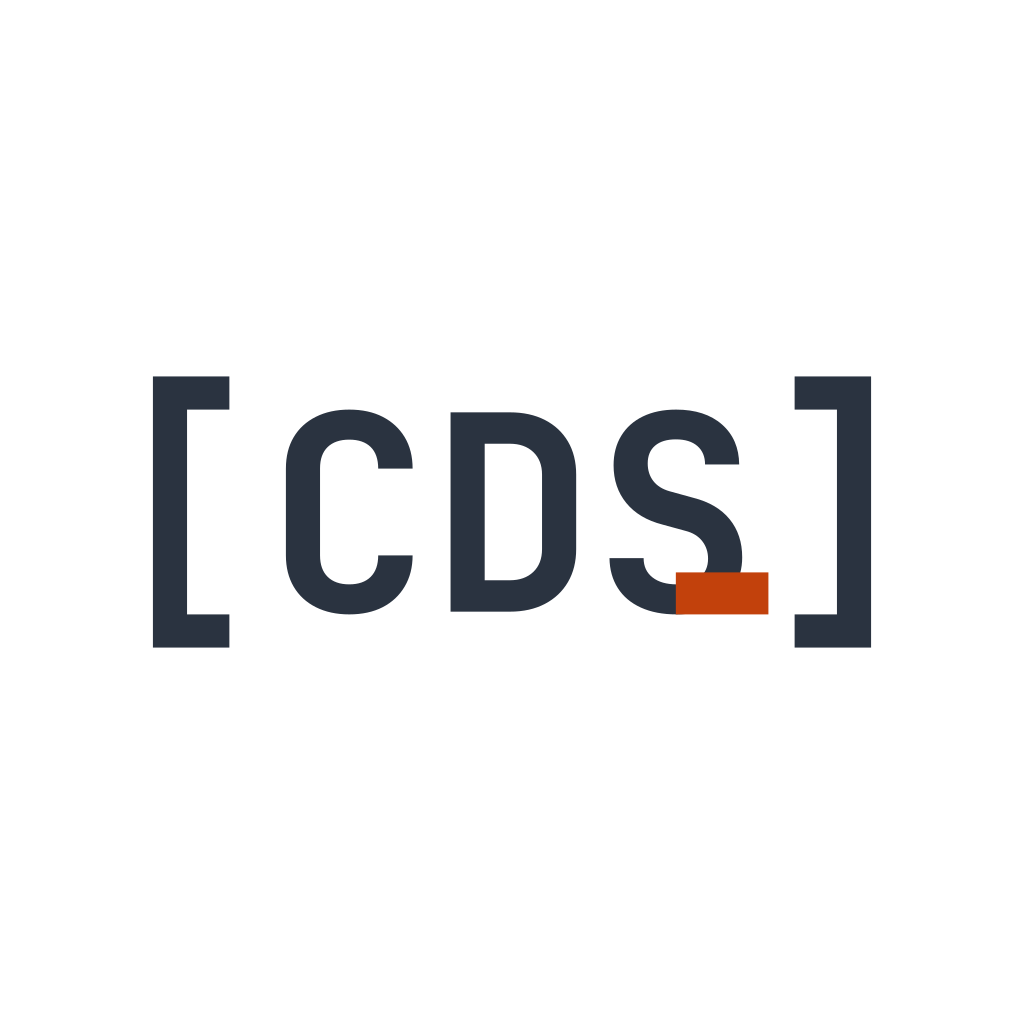
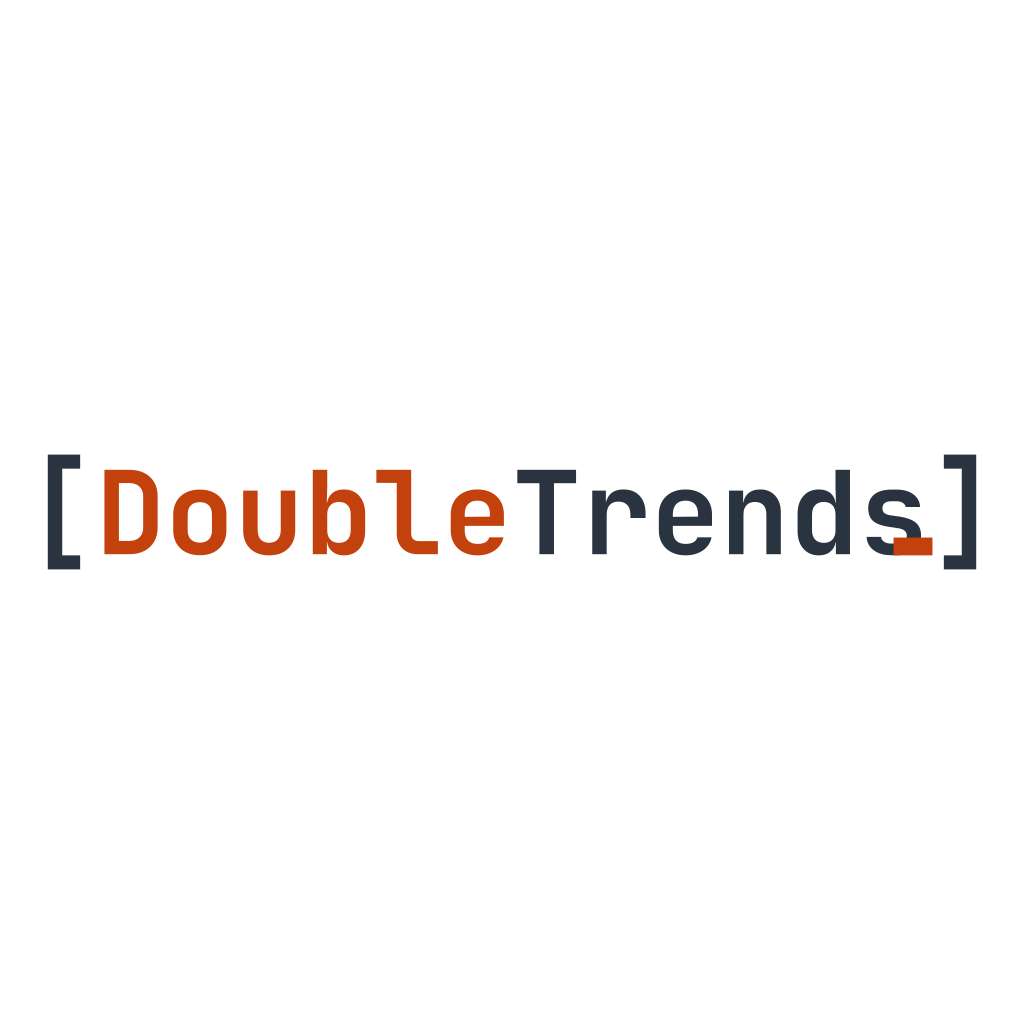
brand assets change

Changed region(s): [[0.0312, 0.3438, 0.9688, 0.6562]]

diff --git a/build-brand.js b/build-brand.js
@@ -47,6 +47,10 @@ const COLOR = {
 
 const BAR_HEIGHT = 4;   // viewBox units
 const BAR_LIFT   = 4;   // bar top sits BAR_LIFT above baseline; bar bottom = baseline
+const WORDMARK_TEXT = 'DoubleTrends';
+const WORDMARK_ACCENT_TEXT = 'Double';
+const OG_TAGLINE = 'DoubleTrends L.L.C. · Market Intelligence';
+const WORDMARK_BAR_WIDTH_RATIO = 0.36;
 
 // Uniform shrink for the Stripe checkout brand icon variant only, so bracket
 // corners clear Stripe's circular crop. 0.85 → 7.5% padding per side.
@@ -175,7 +179,24 @@ function styleBlock({ colorMode }) {
   return `<style>.g{fill:${fill}}</style>`;
 }
 
-// ─── Wordmark — [CDS] + rust bar ──────────────────────────────────────────
+function textAdvance(font, text, fontSize) {
+  let width = 0;
+  for (const ch of text) width += glyphMetrics(font, ch, fontSize).advance;
+  return width;
+}
+
+function textPathData(font, text, startX, baselineY, fontSize) {
+  const parts = [];
+  let x = startX;
+  for (const ch of text) {
+    const met = glyphMetrics(font, ch, fontSize);
+    parts.push(pathDataAt(met.glyph, x, baselineY, fontSize));
+    x += met.advance;
+  }
+  return parts.join(' ');
+}
+
+// ─── Wordmark — bracketed DoubleTrends + rust bar ──────────────────────────
 
 // Build the logo's path/bar/transform pieces for an arbitrary canvas + baseline.
 // Bar height is sized to BAR_HEIGHT at fontSize 26 (the logo base size).
@@ -237,9 +258,78 @@ function logoPieces(font, fontSize, baselineY, vbW) {
   };
 }
 
+function framedWordmarkPieces(font, text, fontSize, baselineY, vbW, {
+} = {}) {
+  const textW = textAdvance(font, text, fontSize);
+  const lMet = glyphMetrics(font, '[', fontSize);
+  const rMet = glyphMetrics(font, ']', fontSize);
+  const totalW = lMet.advance + textW + rMet.advance;
+  const startX = (vbW - totalW) / 2;
+
+  const lX = startX;
+  const textX = lX + lMet.advance;
+  const rX = textX + textW;
+
+  const textPath = textPathData(font, text, textX, baselineY, fontSize);
+  const accentText = text.slice(0, WORDMARK_ACCENT_TEXT.length);
+  const accentPath = textPathData(font, accentText, textX, baselineY, fontSize);
+  const accentWidth = textAdvance(font, accentText, fontSize);
+  const baseText = text.slice(WORDMARK_ACCENT_TEXT.length);
+  const basePath = textPathData(font, baseText, textX + accentWidth, baselineY, fontSize);
+  const lPath = pathDataAt(lMet.glyph, lX, baselineY, fontSize);
+  const rPath = pathDataAt(rMet.glyph, rX, baselineY, fontSize);
+
+  const lastChar = text[text.length - 1];
+  const prefixText = text.slice(0, -1);
+  const lastMet = glyphMetrics(font, lastChar, fontSize);
+  const lastX = textX + textAdvance(font, prefixText, fontSize);
+  const lastRight = lastX + lastMet.x2;
+  const rLeft = rX + rMet.x1;
+  const gapMid = (lastRight + rLeft) / 2;
+  const barX = lastX + (lastMet.advance / 2);
+  const barW = gapMid - barX;
+  const barH = fontSize * (BAR_HEIGHT / 26);
+  const letters = letterRange(font, fontSize, baselineY);
+  const barY = letters.bottom - barH;
+
+  const { K, ty, transform } = bracketScale(font, fontSize, baselineY);
+  const geom = extractBracketGeometry(font, '[', fontSize);
+  const bracketOuterTop = K * (baselineY + geom.outerTop) + ty;
+  const bracketOuterBottom = K * (baselineY + geom.outerBottom) + ty;
+
+  return {
+    textPath,
+    accentPath,
+    basePath,
+    lPath,
+    rPath,
+    bracketTransform: transform,
+    bar: { x: barX, y: barY, w: barW, h: barH },
+    bounds: {
+      left: Math.min(lX + lMet.x1, textX, rX + rMet.x1, barX),
+      top: Math.min(letters.top, bracketOuterTop, barY),
+      right: Math.max(textX + textW, rX + rMet.x2, barX + barW),
+      bottom: Math.max(letters.bottom, bracketOuterBottom, barY + barH),
+    },
+  };
+}
+
+function primaryWordmarkPieces(font, fontSize, baselineY, vbW) {
+  return framedWordmarkPieces(font, WORDMARK_TEXT, fontSize, baselineY, vbW);
+}
+
+function fitPrimaryWordmarkFontSize(font, initialFontSize, vbW, paddingX) {
+  const baselineY = 0;
+  const initialPieces = primaryWordmarkPieces(font, initialFontSize, baselineY, vbW);
+  const initialWidth = initialPieces.bounds.right - initialPieces.bounds.left;
+  const targetWidth = vbW - paddingX * 2;
+  if (initialWidth <= targetWidth) return initialFontSize;
+  return initialFontSize * (targetWidth / initialWidth);
+}
+
 function wordmarkSvg({ vbW, vbH, pieces, colorMode }) {
-  const { cdsPaths, lPath, rPath, bracketTransform, bar } = pieces;
-  return `<svg xmlns="http://www.w3.org/2000/svg" viewBox="0 0 ${vbW} ${vbH}" role="img" aria-label="CDS">${styleBlock({ colorMode })}<g class="g"><path d="${cdsPaths.join(' ')}"/><g transform="${bracketTransform}"><path d="${lPath} ${rPath}"/></g></g><rect x="${bar.x.toFixed(3)}" y="${bar.y.toFixed(3)}" width="${bar.w.toFixed(3)}" height="${bar.h.toFixed(3)}" fill="${COLOR.rust}"/></svg>`;
+  const { accentPath, basePath, lPath, rPath, bracketTransform, bar } = pieces;
+  return `<svg xmlns="http://www.w3.org/2000/svg" viewBox="0 0 ${vbW} ${vbH}" role="img" aria-label="${WORDMARK_TEXT}">${styleBlock({ colorMode })}<path d="${accentPath}" fill="${COLOR.rust}"/><g class="g"><path d="${basePath}"/><g transform="${bracketTransform}"><path d="${lPath} ${rPath}"/></g></g><rect x="${bar.x.toFixed(3)}" y="${bar.y.toFixed(3)}" width="${bar.w.toFixed(3)}" height="${bar.h.toFixed(3)}" fill="${COLOR.rust}"/></svg>`;
 }
 
 // Compute baselineY so the *full* wordmark height (letter visual top → letter
@@ -262,9 +352,9 @@ function centeredBaseline(font, fontSize, vbH) {
 // (Telegram channel, app icon, profile picture, etc.).
 function buildWordmark(font, { colorMode } = { colorMode: 'auto' }) {
   const vbSize   = 600;
-  const fontSize = 160;
+  const fontSize = fitPrimaryWordmarkFontSize(font, 74, vbSize, 28);
   const baselineY = centeredBaseline(font, fontSize, vbSize);
-  const pieces = logoPieces(font, fontSize, baselineY, vbSize);
+  const pieces = primaryWordmarkPieces(font, fontSize, baselineY, vbSize);
   return wordmarkSvg({ vbW: vbSize, vbH: vbSize, pieces, colorMode });
 }
 
@@ -311,15 +401,21 @@ function buildLogo(font, { colorMode, scale = 1, fillViewBox = false } = { color
   const geom = extractBracketGeometry(font, '[', fontSize);
   const xMin = leftX + lMet.x1;
   const xMax = rightX + rMet.x2;
-  const yMin = K * (baselineY + geom.outerTop) + ty;
-  const yMax = K * (baselineY + geom.outerBottom) + ty;
+  const bracketTop = K * (baselineY + geom.outerTop) + ty;
+  const bracketBottom = K * (baselineY + geom.outerBottom) + ty;
+  const yMin = Math.min(bracketTop, barY);
+  const yMax = Math.max(bracketBottom, barY + BAR_HEIGHT);
+  const artworkCx = (xMin + xMax) / 2;
+  const artworkCy = (yMin + yMax) / 2;
+  const dx = (vbW / 2) - artworkCx;
+  const dy = (vbH / 2) - artworkCy;
   const fillScale = fillViewBox
     ? Math.min(vbW / (xMax - xMin), vbH / (yMax - yMin))
     : 1;
   const finalScale = scale * fillScale;
 
   const cx = vbW / 2, cy = vbH / 2;
-  const inner = `<g class="g" transform="${transform}"><path d="${leftPath} ${rightPath}"/></g><rect x="${barX.toFixed(3)}" y="${barY.toFixed(3)}" width="${barW.toFixed(3)}" height="${BAR_HEIGHT}" fill="${COLOR.rust}"/>`;
+  const inner = `<g transform="translate(${dx.toFixed(3)} ${dy.toFixed(3)})"><g class="g" transform="${transform}"><path d="${leftPath} ${rightPath}"/></g><rect x="${barX.toFixed(3)}" y="${barY.toFixed(3)}" width="${barW.toFixed(3)}" height="${BAR_HEIGHT}" fill="${COLOR.rust}"/></g>`;
   const body = finalScale === 1
     ? inner
     : `<g transform="translate(${cx} ${cy}) scale(${finalScale.toFixed(5)}) translate(${-cx} ${-cy})">${inner}</g>`;
@@ -329,61 +425,26 @@ function buildLogo(font, { colorMode, scale = 1, fillViewBox = false } = { color
 // ─── OG image — 1200×630 with centered logo + tagline ─────────────────────
 function buildOgImage(font) {
   const vbW = 1200, vbH = 630;
-  const fontSize = 180;
-  const baselineY = 340;
-
-  const cellW  = glyphMetrics(font, '[', fontSize).advance;
-  const totalW = cellW * 5;
-  const startX = (vbW - totalW) / 2;
-
-  // CDS letter paths (no scaling)
-  const cdsPaths = ['C', 'D', 'S'].map((ch, i) => {
-    const x = startX + (i + 1) * cellW;
-    return pathDataAt(font.charToGlyph(ch), x, baselineY, fontSize);
-  });
-
-  // Bracket paths (wrapped in scale transform below)
-  const lX = startX + 0 * cellW;
-  const rX = startX + 4 * cellW;
-  const lPath = pathDataAt(font.charToGlyph('['), lX, baselineY, fontSize);
-  const rPath = pathDataAt(font.charToGlyph(']'), rX, baselineY, fontSize);
-
-  // Bar
-  const sCellX = startX + 3 * cellW;
-  const bCellX = startX + 4 * cellW;
-  const sMet   = glyphMetrics(font, 'S', fontSize);
-  const bMet   = glyphMetrics(font, ']', fontSize);
-  const sRight = sCellX + sMet.x2;
-  const bLeft  = bCellX + bMet.x1;
-  const gapMid = (sRight + bLeft) / 2;
-  const barX   = sCellX + cellW / 2;
-  const barW   = gapMid - barX;
-  const barH   = fontSize * (BAR_HEIGHT / 26);
-  const letters = letterRange(font, fontSize, baselineY);
-  const barY   = letters.bottom - barH;
-
-  const { transform } = bracketScale(font, fontSize, baselineY);
+  const fontSize = 118;
+  const baselineY = 286;
+  const pieces = primaryWordmarkPieces(font, fontSize, baselineY, vbW);
 
   // Tagline
   const taglineSize = 28;
   const taglineY = 470;
-  const tagline = "DoubleTrends L.L.C. · DoubleTrends™";
-  const tCellW = glyphMetrics(font, 'C', taglineSize).advance;
-  const tTotal = tCellW * tagline.length;
+  const tTotal = textAdvance(font, OG_TAGLINE, taglineSize);
   const tStartX = (vbW - tTotal) / 2;
-  const tPaths = [...tagline].map((ch, i) => {
-    const x = tStartX + i * tCellW;
-    return pathDataAt(font.charToGlyph(ch === ' ' ? ' ' : ch), x, taglineY, taglineSize);
-  });
+  const tPath = textPathData(font, OG_TAGLINE, tStartX, taglineY, taglineSize);
 
-  return `<svg xmlns="http://www.w3.org/2000/svg" viewBox="0 0 ${vbW} ${vbH}" role="img" aria-label="CDS — DoubleTrends™">
+  return `<svg xmlns="http://www.w3.org/2000/svg" viewBox="0 0 ${vbW} ${vbH}" role="img" aria-label="${WORDMARK_TEXT} — ${OG_TAGLINE}">
   <rect width="${vbW}" height="${vbH}" fill="${COLOR.light}"/>
   <g fill="${COLOR.dark}">
-    <path d="${cdsPaths.join(' ')}"/>
-    <g transform="${transform}"><path d="${lPath} ${rPath}"/></g>
+    <path d="${pieces.accentPath}" fill="${COLOR.rust}"/>
+    <path d="${pieces.basePath}"/>
+    <g transform="${pieces.bracketTransform}"><path d="${pieces.lPath} ${pieces.rPath}"/></g>
   </g>
-  <rect x="${barX.toFixed(3)}" y="${barY.toFixed(3)}" width="${barW.toFixed(3)}" height="${barH.toFixed(3)}" fill="${COLOR.rust}"/>
-  <path d="${tPaths.join(' ')}" fill="${COLOR.dark}" opacity="0.55"/>
+  <rect x="${pieces.bar.x.toFixed(3)}" y="${pieces.bar.y.toFixed(3)}" width="${pieces.bar.w.toFixed(3)}" height="${pieces.bar.h.toFixed(3)}" fill="${COLOR.rust}"/>
+  <path d="${tPath}" fill="${COLOR.dark}" opacity="0.55"/>
 </svg>`;
 }
 
@@ -427,7 +488,7 @@ async function main() {
   await rasterizeSquare(logoDark,  path.join(OUT_DIR, 'cds-logo-dark.png'),  512);
   console.log('✓  cds-logo-dark.png');
 
-  // ── Wordmark — [CDS] on square canvas ──
+  // ── Wordmark — bracketed DoubleTrends on square canvas ──
   const wordmarkAuto  = buildWordmark(font, { colorMode: 'auto'  });
   const wordmarkLight = buildWordmark(font, { colorMode: 'light' });
   const wordmarkDark  = buildWordmark(font, { colorMode: 'dark'  });
@@ -458,7 +519,7 @@ async function main() {
   await rasterizeNative(ogSvg, path.join(OUT_DIR, 'og-image.png'));
   console.log('✓  og-image.png');
 
-  console.log(`\nBrand assets generated in ${path.relative(__dirname, OUT_DIR)}/`);
+  console.log(`\nBrand assets refreshed in ${path.relative(__dirname, OUT_DIR)}/`);
 }
 
 main().catch((err) => {
